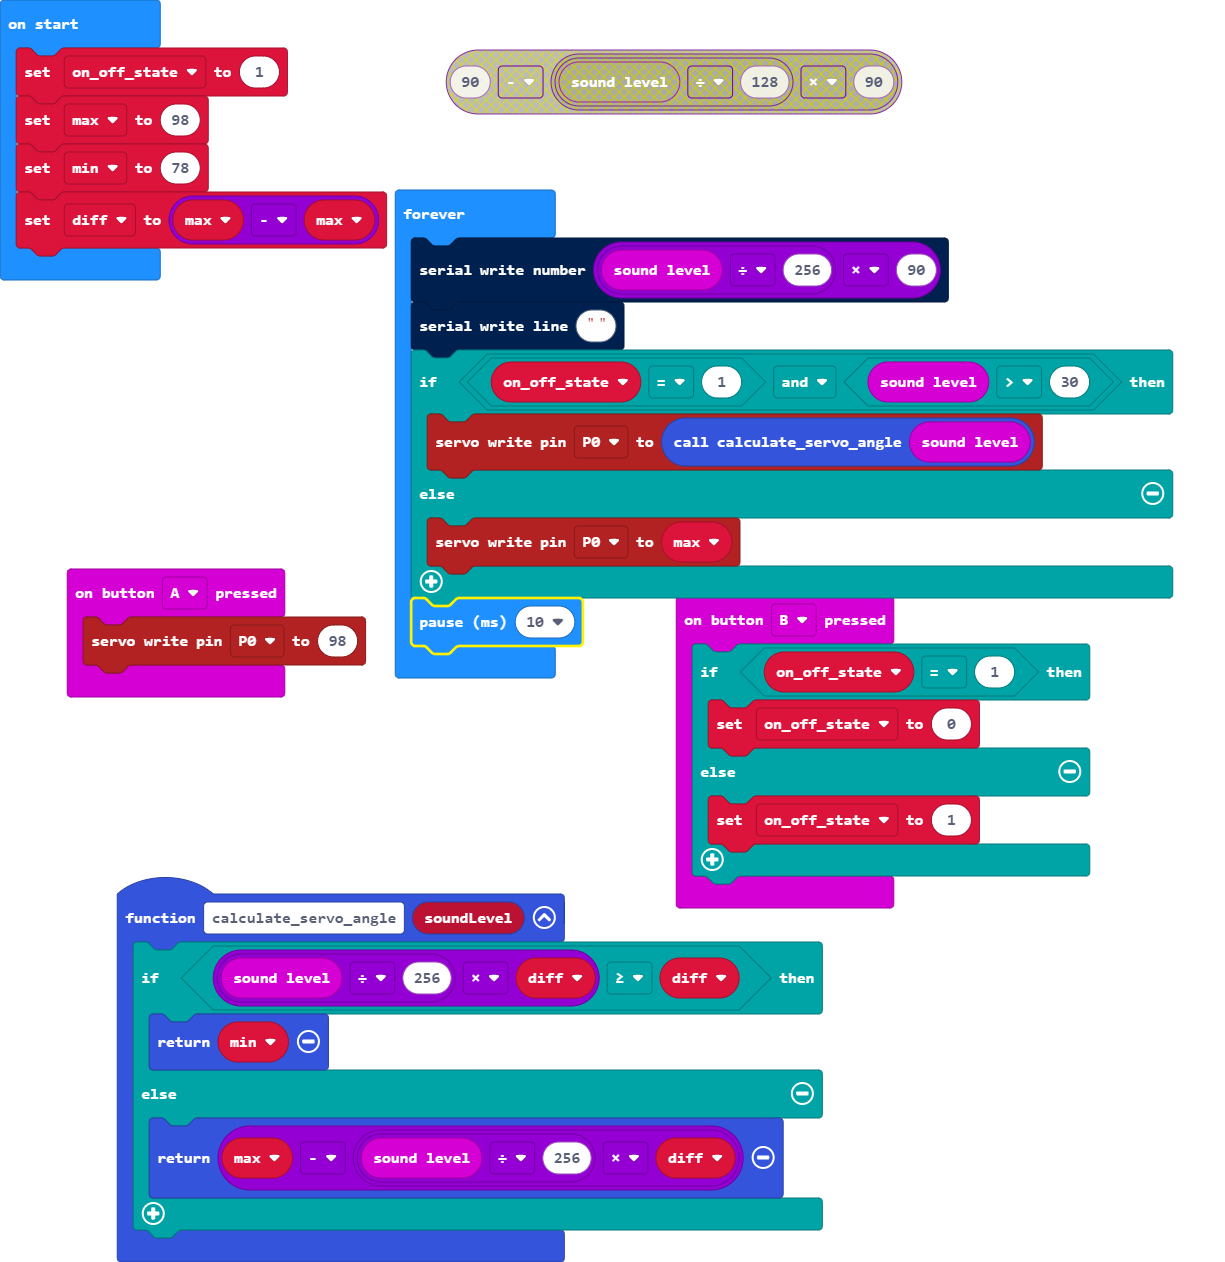
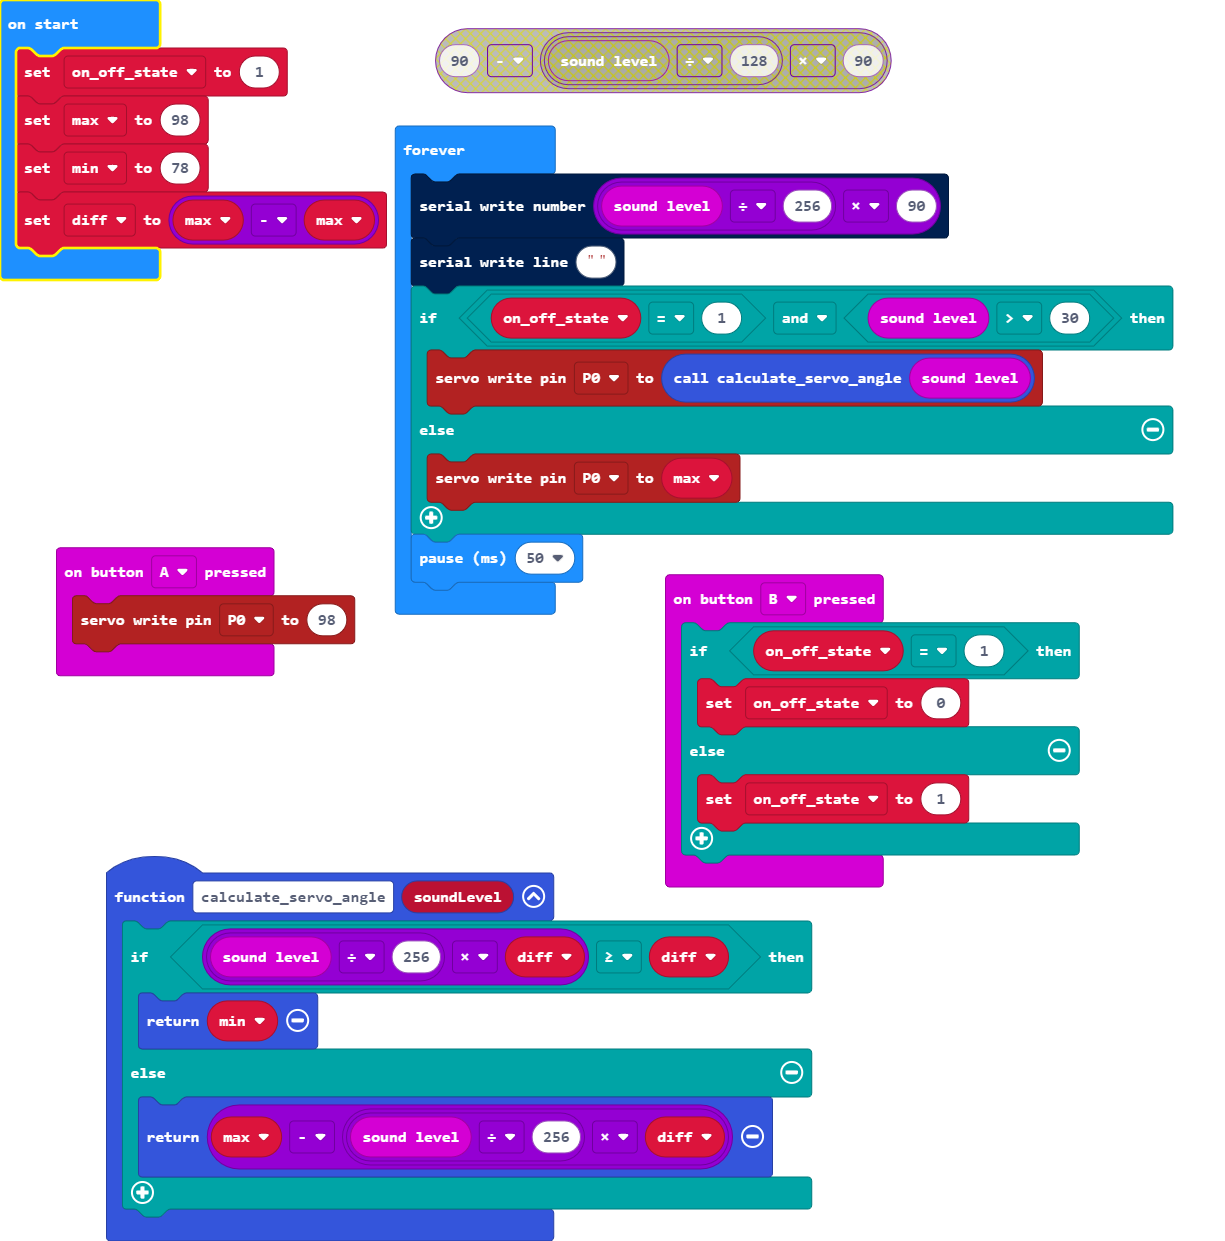
Change delay to 50ms seems like if i update the servo too fast it will go into a loop round and round.

diff --git a/main.ts b/main.ts
@@ -31,5 +31,5 @@ basic.forever(function () {
     } else {
         pins.servoWritePin(AnalogPin.P0, max)
     }
-    basic.pause(10)
+    basic.pause(50)
 })
